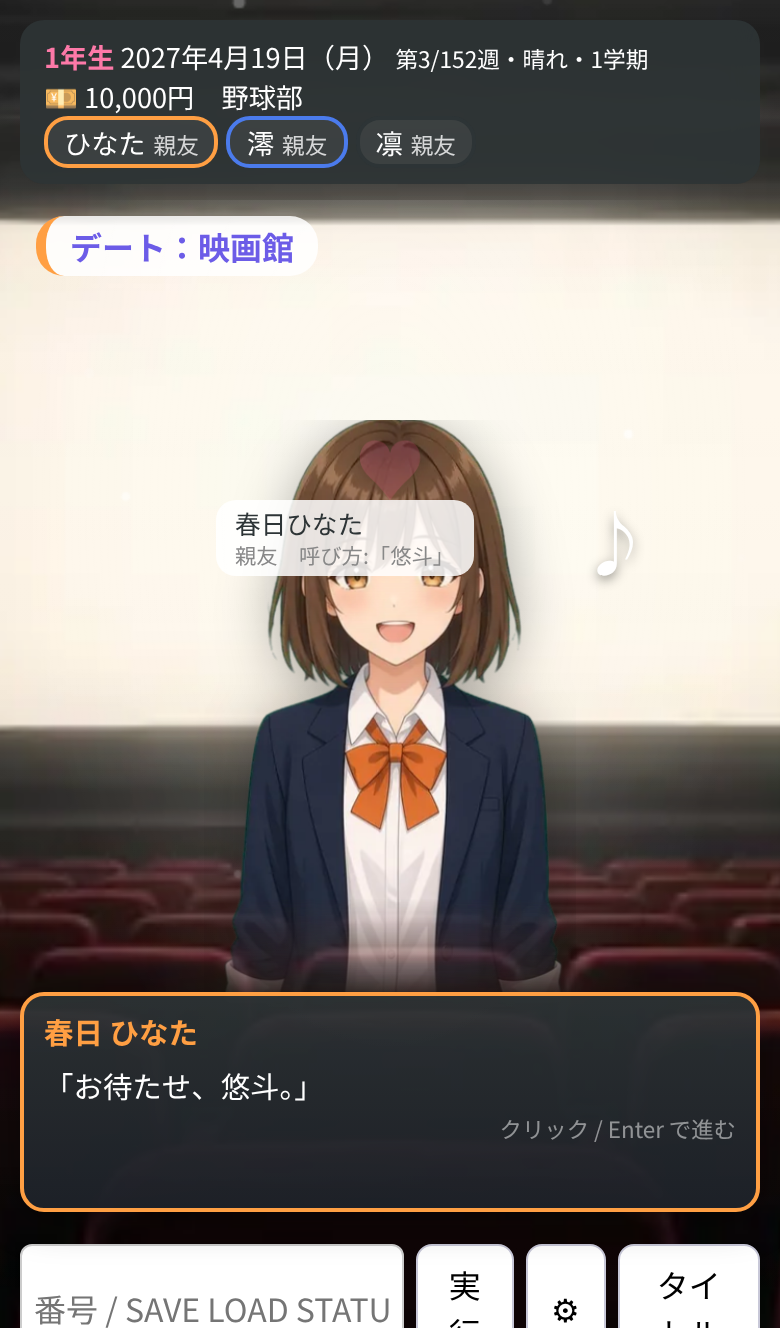
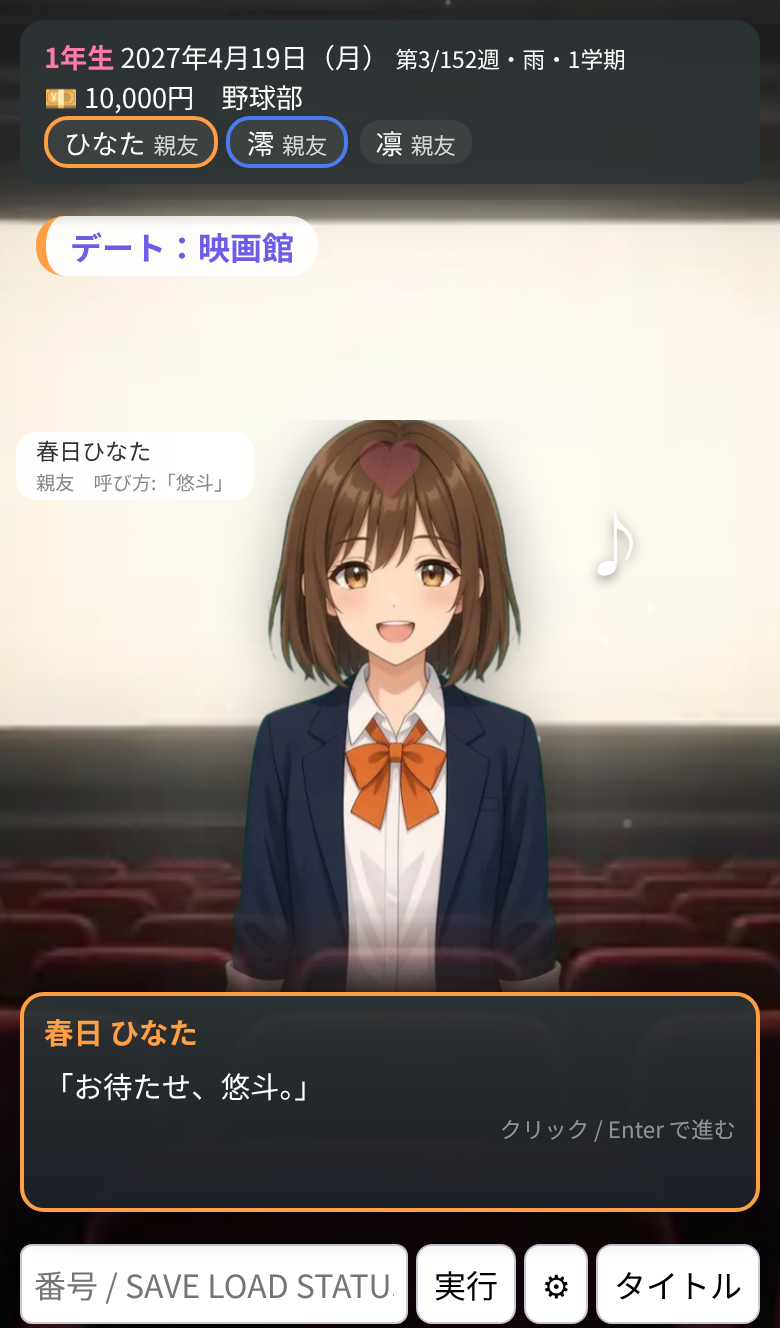
v1.4.1: theme song loops on title (autoplay unlock, fade, fallback), mobile label/cmd fixes

diff --git a/src/sc/ui.ts b/src/sc/ui.ts
@@ -27,8 +27,12 @@ export function boot() { audio.setVolumes(set.master, set.bgm, set.se); title();
 // ───────── タイトル ─────────
 function title() {
   stop(); audio.stopBgm(); S = null; setBg('key', { season: '春', weather: '晴れ', tod: 'day' });
-  const startTitleBgm = () => { audio.resume(); audio.playBgm('title'); };
-  document.addEventListener('pointerdown', startTitleBgm, { once: true });
+  if (!audio.songElement()?.loop) audio.stopSong();
+  void audio.titleSong(BASE).then(ok => { if (ok || S) return; const h = document.createElement('div'); h.className = 'tapstart'; h.textContent = '🔊 タップで主題歌スタート'; document.querySelector('.title')?.appendChild(h);
+    // iOS Safari は touchend/click をユーザー操作として扱うため複数イベントで解錠を試みる
+    const EVS = ['touchend', 'click', 'pointerup', 'keydown'];
+    const go = () => { if (!S) audio.unlockTitleSong(BASE); setTimeout(() => { if (audio.songPlaying() || audio.titleFallbackOn() || S) { EVS.forEach(e => document.removeEventListener(e, go, true)); h.remove(); } }, 300); };
+    EVS.forEach(e => document.addEventListener(e, go, true)); });
   app().innerHTML = `<div class="title"><div class="rays"></div><div class="logo"><small>星見ヶ丘学園</small><h1>青春クロニクル</h1><p>～君と過ごした1000日間～</p></div>
   <div class="menu"><button id="t-new">はじめから</button><button id="t-cont" ${store.has('auto') ? '' : 'disabled'}>つづきから（オートセーブ）</button><button id="t-load">セーブ文字列から再開</button><button id="t-set">音声・音量設定</button><button id="t-song">🎵 主題歌</button><button id="t-help">遊び方</button></div>
   <p class="note">全${LAST_WEEK}週（高校3年間）。1周の目安 約2〜3時間。音声は端末内蔵の読み上げ機能（Web Speech API）で、AI音声ではありません。</p></div>`;
@@ -45,13 +49,14 @@ function themeSong() {
   modal('🎵 主題歌', `<p class="note">提供音源（ボーカル入り）。歌詞は音声からの自動書き起こしのため、実際と異なる場合があります。</p>
   <div class="row"><button id="sg-play" class="primary">▶ 再生</button><button id="sg-stop">■ 停止</button><label><input type="checkbox" id="sg-loop"> ループ</label><label><input type="checkbox" id="sg-ly" checked> 歌詞を表示</label></div>
   <div class="lyrics">${SONG_LYRICS.map(([, l], i) => `<p data-i="${i}">${esc(l)}</p>`).join('')}</div><div class="bar"><i id="ly-bar"></i></div><p class="note">音量は「音声・音量設定」のBGM音量に連動します。</p>`);
-  const loopEl = $('#sg-loop') as HTMLInputElement, lyEl = $('#sg-ly') as HTMLInputElement;
-  const start = () => { const a = audio.playSong(BASE, { loop: loopEl.checked, onEnd: () => { if (!S) audio.playBgm('title'); } }); a.loop = loopEl.checked; };
-  $('#sg-play').onclick = start; $('#sg-stop').onclick = () => { audio.stopSong(); if (!S) audio.playBgm('title'); };
+  const loopEl = $('#sg-loop') as HTMLInputElement, lyEl = $('#sg-ly') as HTMLInputElement; loopEl.checked = true;
+  // タイトルで流れている主題歌をそのまま使う（二重再生しない）
+  const start = () => { const a = audio.songElement(); if (a) { a.loop = loopEl.checked; a.play().catch(() => { }); } else { audio.titleSong(BASE).then(() => { const b = audio.songElement(); if (b) b.loop = loopEl.checked; }); } };
+  $('#sg-play').onclick = () => { const a = audio.songElement(); if (a) a.currentTime = 0; start(); }; $('#sg-stop').onclick = () => { audio.songElement()?.pause(); };
   loopEl.onchange = () => { const a = audio.songElement(); if (a) a.loop = loopEl.checked; };
   lyEl.onchange = () => { (document.querySelector('.lyrics') as HTMLElement).style.display = lyEl.checked ? '' : 'none'; };
   start();
-  const tick = () => { const m = document.querySelector('.lyrics'); if (!m) { if (audio.songPlaying()) { audio.stopSong(); if (!S) audio.playBgm('title'); } return; }
+  const tick = () => { const m = document.querySelector('.lyrics'); if (!m) { const a = audio.songElement(); if (a) a.loop = true; if (!S && !audio.songPlaying()) audio.unlockTitleSong(BASE); return; }
     const a = audio.songElement(); const t = a ? a.currentTime : 0; let cur = -1; SONG_LYRICS.forEach(([s0], i) => { if (t >= s0) cur = i; });
     m.querySelectorAll('p').forEach((p, i) => p.classList.toggle('on', i === cur)); const on = m.querySelector('p.on') as HTMLElement | null; if (on) m.scrollTop = on.offsetTop - m.clientHeight / 2;
     const b = document.getElementById('ly-bar'); if (b && a && a.duration) b.style.width = Math.min(100, t / a.duration * 100) + '%'; requestAnimationFrame(tick); };

diff --git a/src/sc/audio.ts b/src/sc/audio.ts
@@ -28,6 +28,24 @@ export function playSong(base: string, opts: { loop?: boolean; onEnd?: () => voi
   a.src = `${base}${SONG_FILE}.${ogg ? 'ogg' : 'mp3'}`; a.loop = !!opts.loop; a.volume = songVol; a.onended = () => { songEl = null; opts.onEnd?.(); };
   songEl = a; a.play().catch(() => { }); return a;
 }
+let fadeT: any = null;
+/** 主題歌をフェードアウトして停止 */
+export function fadeSong(ms = 900) {
+  const a = songEl; if (!a) return; songEl = null; a.onended = null; clearInterval(fadeT); const v0 = a.volume, t0 = performance.now();
+  fadeT = setInterval(() => { const k = Math.min(1, (performance.now() - t0) / ms); a.volume = Math.max(0, v0 * (1 - k)); if (k >= 1) { clearInterval(fadeT); a.pause(); } }, 40);
+}
+let titleFallback = false;
+export const titleFallbackOn = () => titleFallback;
+/** タイトル画面：主題歌をループ再生。自動再生が拒否されたら false（最初のタップで unlockTitleSong）。読み込み失敗時は合成BGMへ */
+export function titleSong(base: string): Promise<boolean> {
+  if (titleFallback) { playBgm('title'); return Promise.resolve(true); }
+  if (songEl && songEl.loop && !songEl.paused) return Promise.resolve(true);
+  if (songEl && songEl.loop) return songEl.play().then(() => true, () => false);
+  const a = playSong(base, { loop: true }); a.loop = true;
+  a.onerror = () => { if (songEl === a) { songEl = null; titleFallback = true; playBgm('title'); } };
+  return a.play().then(() => true, () => false);
+}
+export function unlockTitleSong(base: string) { resume(); if (titleFallback) return playBgm('title'); const a = songEl; if (a) a.play().catch(() => { }); else void titleSong(base); }
 export function stopSong() { if (songEl) { songEl.onended = null; songEl.pause(); songEl = null; } }
 export const songPlaying = () => !!songEl && !songEl.paused;
 export const songElement = () => songEl;
@@ -103,7 +121,7 @@ function drum(kind: 'k' | 's' | 'h' | 'o' | 'c' | 't', t: number, vel = 1, tune 
 let playing = '', startAt = 0;
 export function playBgm(name: string, transpose = 0, opts: { loop?: boolean; onEnd?: () => void; horizon?: number } = {}) {
   const horizon = opts.horizon ?? .15;
-  if (!ensure()) return; const key = name + transpose; if (playing === key && timer) return; if (songEl && !opts.horizon) stopSong(); stopBgm(); playing = key;
+  if (songEl && !opts.horizon) fadeSong(); if (!ensure()) return; const key = name + transpose; if (playing === key && timer) return; stopBgm(); playing = key;
   const song = name === 'theme' ? songOfTheme() : (SONGS[name] || SONGS.school);
   const c = ctx!, step = 60 / song.bpm / 2; let slot = 0, next = c.currentTime + .08; startAt = next; const total = song.chords.length * 8; const loop = opts.loop ?? name !== 'theme';
   const bars = song.mel.map(b => parseBar(b, song.minor));

diff --git a/src/style.css b/src/style.css
@@ -129,3 +129,6 @@ body{padding-left:env(safe-area-inset-left);padding-right:env(safe-area-inset-ri
 @media (prefers-reduced-motion:reduce){.psway,.phair,.cwimg img,.pwrap.talk .psway{animation:none}}
 @media(max-width:720px){#app:has(.stage) .hud .stats{display:none}.portrait .pi{top:40px}}
 @media(min-width:721px){.cwimg{width:200px;height:290px}}
+.tapstart{position:fixed;left:50%;bottom:calc(14px + env(safe-area-inset-bottom));transform:translateX(-50%);z-index:5;background:#2d3436d0;color:#fff;padding:8px 18px;border-radius:20px;font-weight:bold;animation:tapb 2.4s ease-in-out infinite;pointer-events:none}@keyframes tapb{50%{opacity:.55}}
+@media(max-width:720px){.portrait .pi{top:auto;bottom:16%;left:4px;right:auto;font-size:.72rem;z-index:1}.cmd{display:flex;gap:4px}.cmd input{flex:1;min-width:0}.cmd button{white-space:nowrap;flex:none;padding-left:8px;padding-right:8px}}
+@media(max-width:720px){.portrait .pi{top:6px;bottom:auto;left:calc(50% - 50vw + 8px);text-align:left}}

diff --git a/docs/spec-seishun.md b/docs/spec-seishun.md
@@ -46,3 +46,9 @@
 - デート・電話・会話は相手の立ち絵を常時表示。スマホのシーン中はステータスバーを畳み、テキスト窓を最大26dvhに。
 - まばたきは未実装（閉じ目差分を自動生成すると顔が崩れるため見送り）。
 - scripts/play-shots.mjs → docs/screenshots/play/。
+
+## v1.4.1 タイトルで主題歌
+- タイトル画面で提供主題歌をループ再生（BGM音量・全体音量に連動）。自動再生が拒否されたら「🔊 タップで主題歌スタート」を表示し、最初の操作（touchend/click/pointerup/keydown）で HTMLAudio を解錠。
+- ゲーム開始・つづきからでフェードアウト、タイトル復帰で再開。🎵主題歌ボタンは同じ再生に歌詞を同期表示（二重再生なし）。
+- 音源の読み込み失敗時のみ合成タイトルBGMにフォールバック。scripts/title-song-check.mjs で検証。
+- スマホの立ち絵名札を画面左上へ移動（顔に被らない）、コマンドバーのボタン折り返しを修正。
